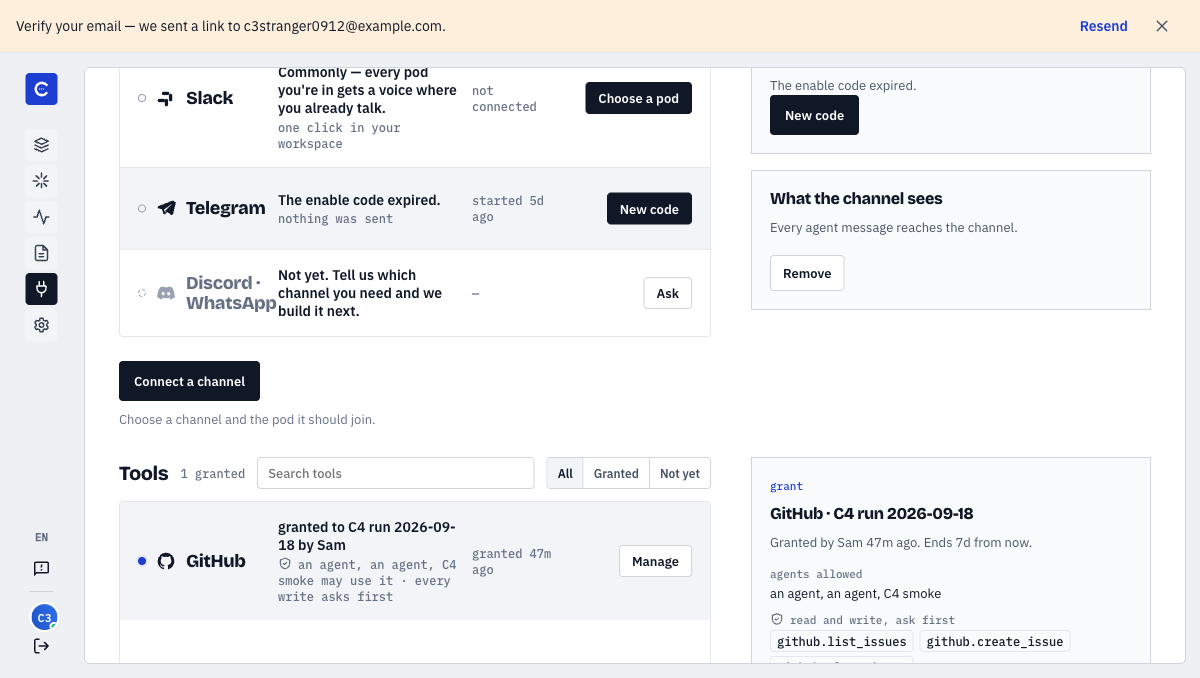
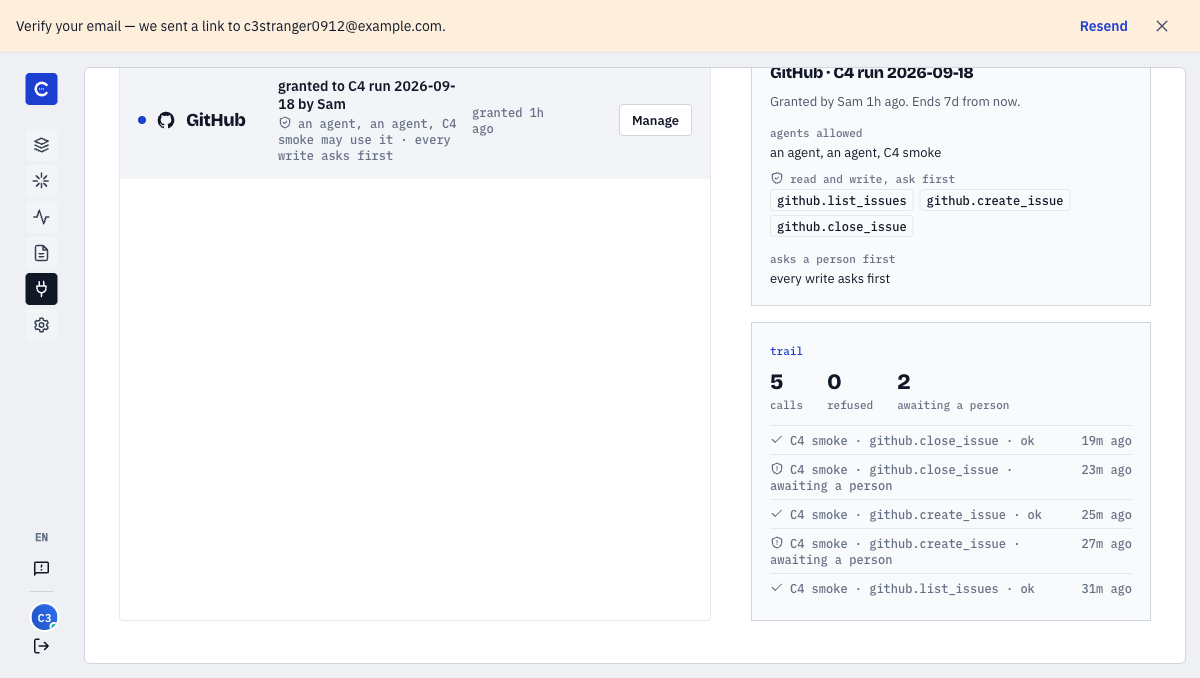
docs(plans): C4 record — the trail capture shows the trail; two captures renamed for what they show
Vera (69588): the three captures named for trail states were the same Tools
viewport with the trail below the fold. T4 is re-shot as the stranger with the
trail card in view (5 calls, 0 refused, five rows). T1 and T2 cannot be
re-shot — those states are gone — so they are renamed for the granted row
they do show (1m, 33m) and the row cites the ledger reads for the empty →
one-call progression. #1746 is now merged (48a5ea92); the row says so.

diff --git a/docs/plans/production-readiness-and-selling-2026-09-11.md b/docs/plans/production-readiness-and-selling-2026-09-11.md
@@ -76,7 +76,7 @@ Selling before 6 is true sells a liability. Everything below is ordered by that.
 | C1 The funnel is not measured weekly | 49 signups / 30 d known only because someone ran a script today | A scheduled weekly report: signup → typed → got a reply → connected a channel → day-2 return → day-7 active, with the numbers in a pod, not a chat log. The script in this plan's appendix is the seed | GTM + Sharpen |
 | C2 Hosted default caps at 1 agent | `DEFAULT_AGENTS_PER_USER = 1` | Decide the free/Pro split of hosted agents (D2) and make the cap the pricing table, not a beta constant | **Sam** |
 | C3 Channel connect in < 2 minutes | Telegram proven; Slack/Discord install UX untested by a stranger; 6 connected channels total | One recorded stranger run per channel (Telegram, Slack, Discord) from the Connectors page, timed; fixes filed from the recording. **C3 exit record (stranger run 2026-09-12, throwaway account, commonly.me):** timings as they stand — Telegram connect → enable code 2m04s wall clock (~10 s net); code → first relay not reached (the live build did not name the bot; no Telegram account on the run); Slack not runnable (not enabled on commonly.me); Discord not runnable (not on the list). Eight stumbles, all on main: TASK-021 bot handle unset in the build #1699 `50dea44d`; TASK-022 signup did not sign the user in #1701 `d7814143`; TASK-023 code half, one definition of Slack enabled #1700 `c99261c2`; TASK-025 pod picker label #1702 `5456486f`; TASK-026 enable-code copy and expiry #1704 `089f52ec`; TASK-027 Telegram card copy #1705 `3d2bc281`; TASK-028 zero-pod state #1706 `3e44ad97`; C3-9 connector row crush #1703 `25c45c26`. Two rows stay with Sam: TASK-023's credential half (the Slack OAuth app and its SM values) and TASK-024 (Discord on the list). None of it is live until the next Deploy Dev; the Telegram enable step is re-run after it, and the Slack and Discord timings wait on Sam's two rows | Connectors + UX Lead gates |
-| C4 The Tools page and approval card (pieces 3–4) | pieces 3–4 on main (#1667/#1670/#1669); the GitHub tool is `not_configured` on commonly.me | An admin installs the GitHub App once, grants the tool to a room and approves each write; a stranger in that room mentions the seat and reads the trail — one recorded stranger run from the Tools page, timed from opening Tools to the approved action landing; fixes filed from the recording. (#1714 wrote *a stranger grants … and approves*; the run showed the stranger can do neither — the mint takes `grantedBy` from the Connection's owner and 403s anyone else (§9 of the room-grants plan), and approval carries the granter's authority. The stranger's part is the room, the mention and the trail.) **C4 exit record (stranger run 2026-09-18, throwaway account, commonly.me, seat on cli 0.1.45 with #1743 applied by hand): REACHED.** Tools opened as the stranger 11:32:00Z (T0, GitHub *not granted*); admin minted the grant 11:32:51Z (list/create/close issues, write-with-confirm, 7 d); stranger reload 11:33Z shows the granted row and an empty trail (T1). First approved write landed 12:10:11Z — **38m11s from Tools open**, of which ~28 min were the seat, not the page: the seat's first answer (11:34Z) came from the host's `gh` under operator credentials and left no trail row (TASK-051), then the server-declared confined environment crashed every spawn (#1743) until 12:00:04Z. Measured after confinement: list 12:03:58Z → ok 12:04:39Z, no park; create 12:07:02Z → parked 12:07:44Z → approved 12:10:10Z → issue #1745 12:10:11Z, authored by the App; close 12:11:39Z → parked 12:12:20Z → approved 12:16:28Z → closed 12:16:29Z. Reads did not park, both writes did, each executed write carries its approval id; trail read as the stranger 12:20Z: five rows, 0 refused. Stumbles filed from the recording, all `68854#c4-N`: TASK-039 grant projection into the seat's environment (#1721), TASK-040 admin App step has no Tools affordance (#1722), TASK-048 self-serve install ships no MCP entry (#1741), TASK-049 daemon-spawned seats miss the pi key, TASK-050 audience label renders people as *an agent*, TASK-051 host-credential bypass, TASK-052 self-serve environment declares no sandbox, TASK-053 the plan-doc rule (this record), TASK-054 pi has no HTTP MCP transport (#1740), TASK-055 **P0**: the agent-config PATCH gated on membership only, so a member could rewrite a seat's environment and the owner's daemon ran it (#1746, deploy first), TASK-056 the approval card renders as an empty bubble to a non-approver, TASK-057 the resolve 400 does not name its enum, TASK-058 the trail keeps counting resolved approvals as awaiting. The 2026-09-16 attempt (`00e7ebc9`) was NOT REACHED at the `not_configured` row: TASK-033 App credentials (Sam), TASK-034 members cannot install the App until piece 6, TASK-035 the inert not-enabled row (#1713). Evidence: `docs/design/evidence/c4-run-2026-09-18-*.png`, eight stranger-view captures at 1200 (T0, T1, T2 reply and trail, T3 card and approved, T4 card and trail). | Connectors + UX Lead gates |
+| C4 The Tools page and approval card (pieces 3–4) | pieces 3–4 on main (#1667/#1670/#1669); the GitHub tool is `not_configured` on commonly.me | An admin installs the GitHub App once, grants the tool to a room and approves each write; a stranger in that room mentions the seat and reads the trail — one recorded stranger run from the Tools page, timed from opening Tools to the approved action landing; fixes filed from the recording. (#1714 wrote *a stranger grants … and approves*; the run showed the stranger can do neither — the mint takes `grantedBy` from the Connection's owner and 403s anyone else (§9 of the room-grants plan), and approval carries the granter's authority. The stranger's part is the room, the mention and the trail.) **C4 exit record (stranger run 2026-09-18, throwaway account, commonly.me, seat on cli 0.1.45 with #1743 applied by hand): REACHED.** Tools opened as the stranger 11:32:00Z (T0, GitHub *not granted*); admin minted the grant 11:32:51Z (list/create/close issues, write-with-confirm, 7 d); stranger reload 11:33Z shows the granted row and an empty trail (T1). First approved write landed 12:10:11Z — **38m11s from Tools open**, of which ~28 min were the seat, not the page: the seat's first answer (11:34Z) came from the host's `gh` under operator credentials and left no trail row (TASK-051), then the server-declared confined environment crashed every spawn (#1743) until 12:00:04Z. Measured after confinement: list 12:03:58Z → ok 12:04:39Z, no park; create 12:07:02Z → parked 12:07:44Z → approved 12:10:10Z → issue #1745 12:10:11Z, authored by the App; close 12:11:39Z → parked 12:12:20Z → approved 12:16:28Z → closed 12:16:29Z. Reads did not park, both writes did, each executed write carries its approval id; trail read as the stranger 12:20Z: five rows, 0 refused. Stumbles filed from the recording, all `68854#c4-N`: TASK-039 grant projection into the seat's environment (#1721), TASK-040 admin App step has no Tools affordance (#1722), TASK-048 self-serve install ships no MCP entry (#1741), TASK-049 daemon-spawned seats miss the pi key, TASK-050 audience label renders people as *an agent*, TASK-051 host-credential bypass, TASK-052 self-serve environment declares no sandbox, TASK-053 the plan-doc rule (this record), TASK-054 pi has no HTTP MCP transport (#1740), TASK-055 **P0**: the agent-config PATCH gated on membership only, so a member could rewrite a seat's environment and the owner's daemon ran it (#1746, merged 48a5ea92; deploy requested), TASK-056 the approval card renders as an empty bubble to a non-approver, TASK-057 the resolve 400 does not name its enum, TASK-058 the trail keeps counting resolved approvals as awaiting. The 2026-09-16 attempt (`00e7ebc9`) was NOT REACHED at the `not_configured` row: TASK-033 App credentials (Sam), TASK-034 members cannot install the App until piece 6, TASK-035 the inert not-enabled row (#1713). Evidence: `docs/design/evidence/c4-run-2026-09-18-*.png`, eight stranger-view captures at 1200 — T0 Tools with GitHub not granted; T1 and T2 the granted row at 1m and 33m (the trail sat below the fold in both, so the empty → one-call progression is carried by the ledger reads in the pod, Vera 69552 four rows and 69566 five, not by those two captures); T2 the seat's list reply; T3 the create card and its approved state; T4 the close card and the trail scrolled into view, five rows, 0 refused, still counting the two resolved approvals as awaiting (TASK-058). | Connectors + UX Lead gates |
 | C5 Empty states and the second visit | scripted starter workspace shipped 07-03; unmeasured since | C1's day-2 number decides whether this is a gap | GTM |
 
 ### D. Billing and packaging
